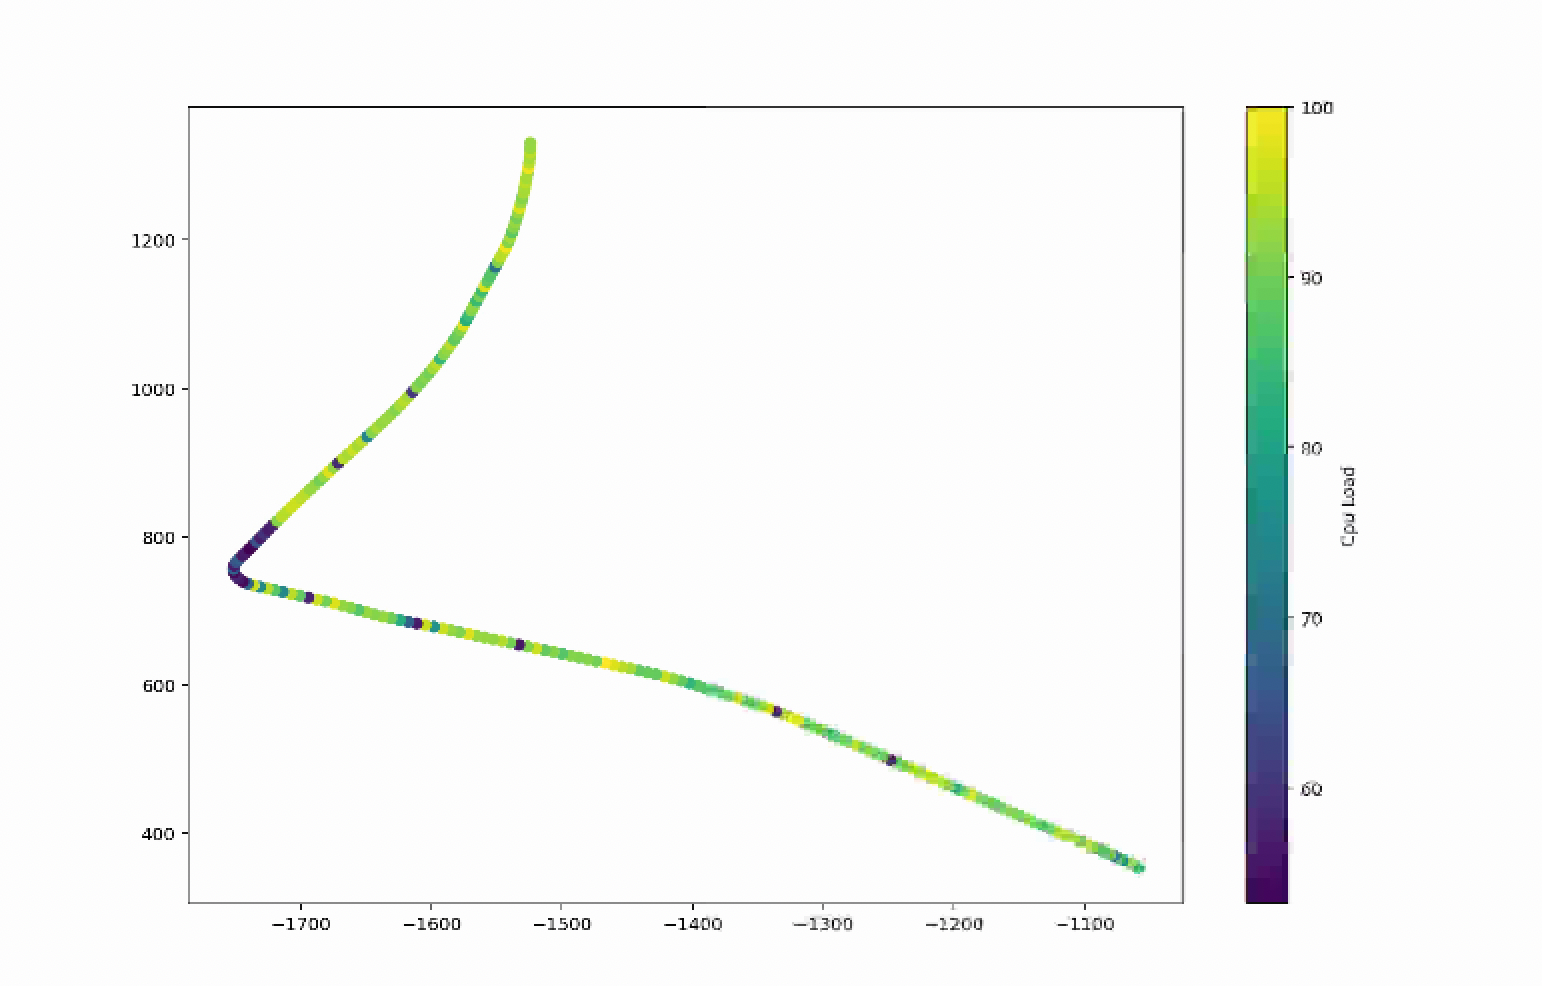
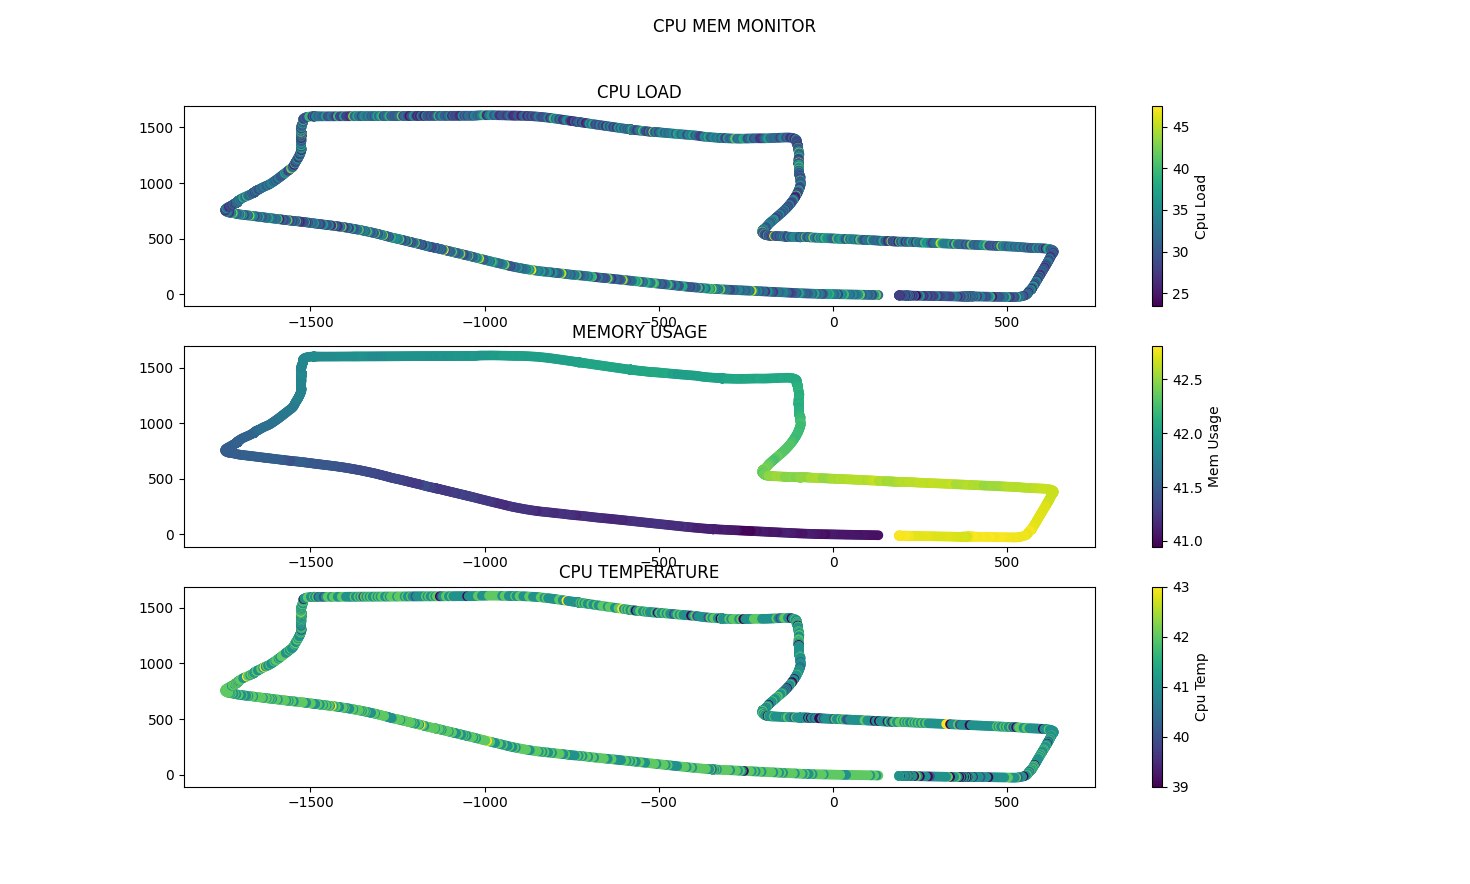
feat: use subplot to visualize CPU LOAD, MEMORY USAGE, CPU TEMPERATURE in the same frame

diff --git a/scripts/load_monitor_visualization.py b/scripts/load_monitor_visualization.py
@@ -12,13 +12,26 @@ if __name__ == '__main__':
     z = []
     cpu = []
     mem = []
+    cpu_temp = []
     for row in csv_reader:
       x.append(float(row[0]))
       y.append(float(row[1]))
       z.append(float(row[2]))
       cpu.append(float(row[3]))
       mem.append(float(row[4]))
-  plt.scatter(np.array(x), np.array(y), c=np.array(cpu))
-  plt.colorbar(label='Cpu Load')
+      cpu_temp.append(float(row[5]))
+  
+  fig, axs = plt.subplots(3)
+  fig.suptitle("CPU MEM MONITOR")
+  axs[0].set_title("CPU LOAD")
+  img_cpu_load = axs[0].scatter(np.array(x), np.array(y), c=np.array(cpu))
+  axs[1].set_title("MEMORY USAGE")
+  img_mem_usage = axs[1].scatter(np.array(x), np.array(y), c=np.array(mem))
+  axs[2].set_title("CPU TEMPERATURE")
+  img_cpu_temp = axs[2].scatter(np.array(x), np.array(y), c=np.array(cpu_temp))
+  plt.colorbar(img_cpu_load, label='Cpu Load', ax=axs[0])
+  plt.colorbar(img_mem_usage, label='Mem Usage', ax=axs[1])
+  plt.colorbar(img_cpu_temp, label='Cpu Temp', ax=axs[2])
+
   plt.show()
   
